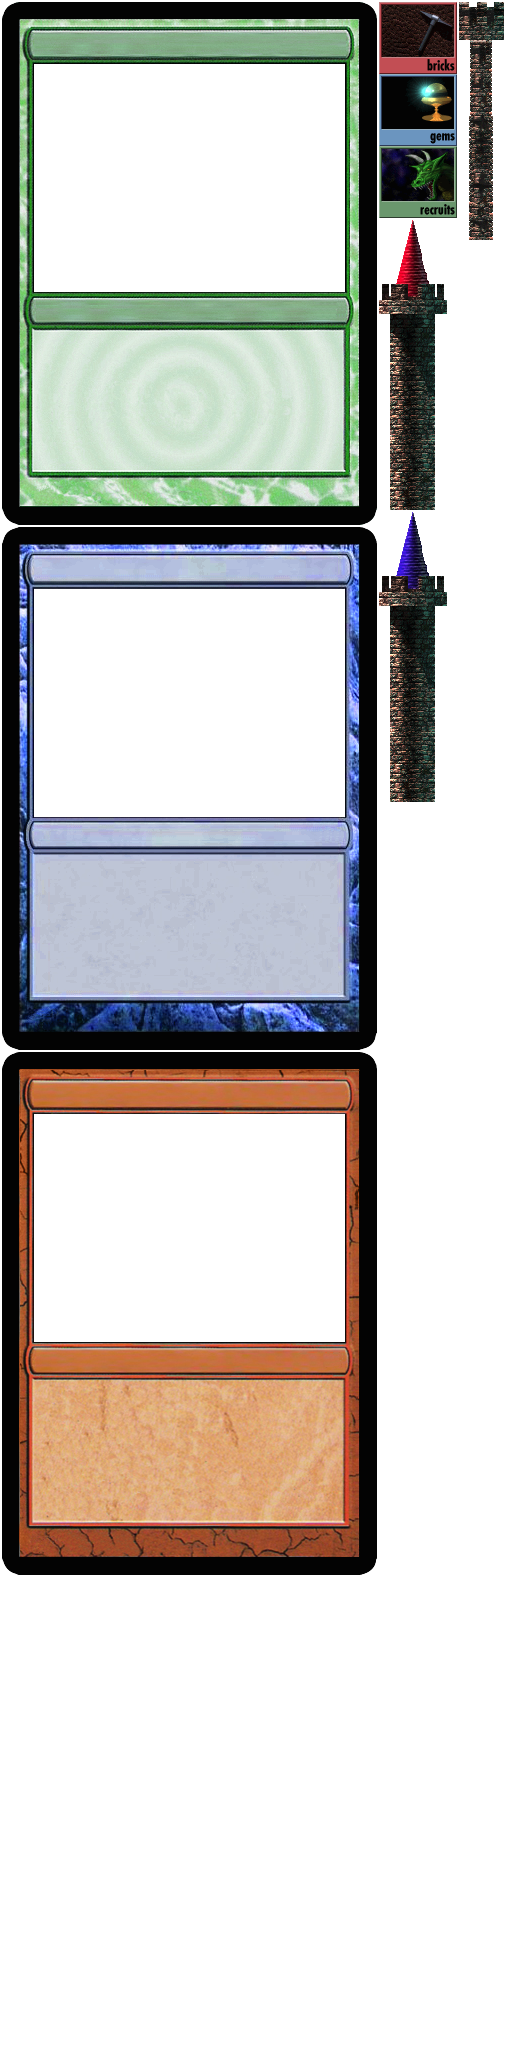
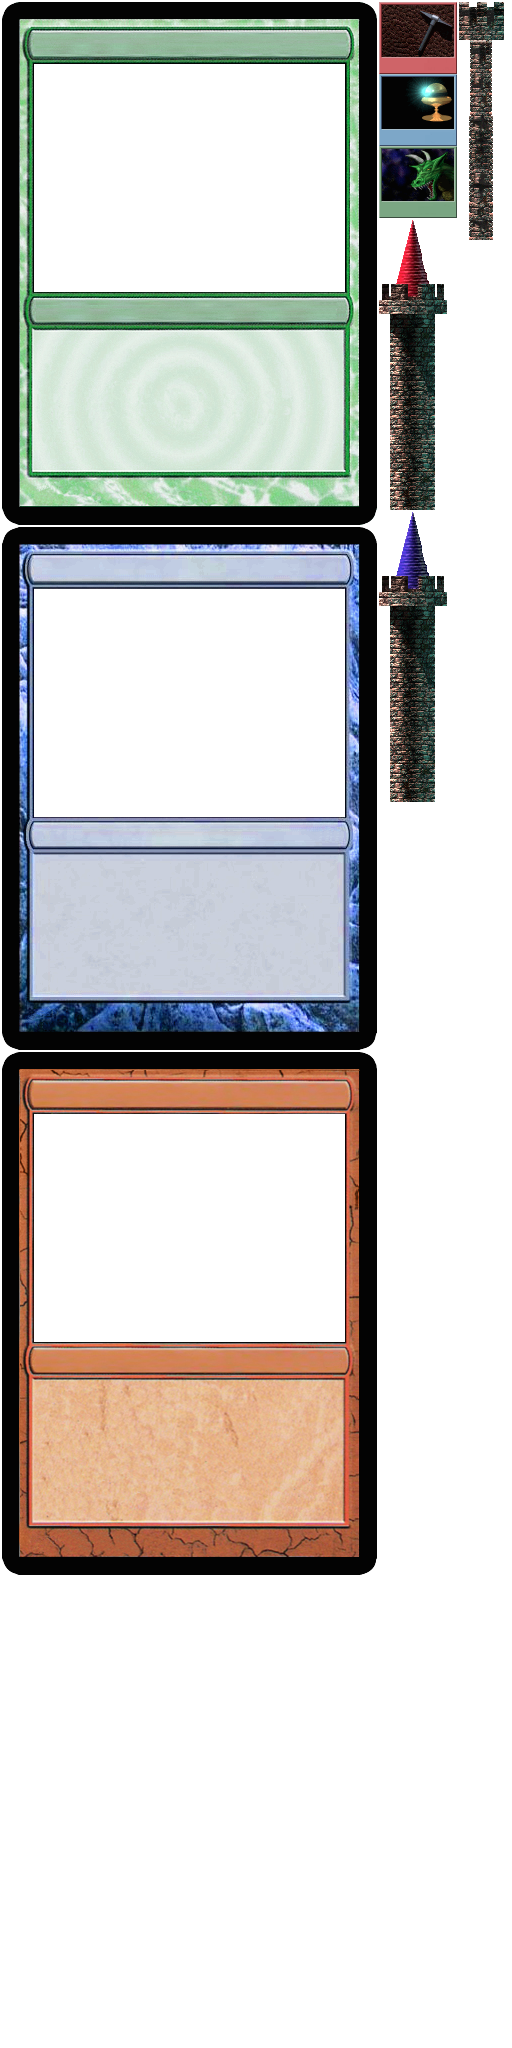
OResourceUI: animate resource bar counter.

diff --git a/Omeotte/Omeotte/OResourcesUI.m b/Omeotte/Omeotte/OResourcesUI.m
@@ -18,10 +18,13 @@
 
 @synthesize lblQuarries;
 @synthesize lblBricks;
+@synthesize qdBricks;
 @synthesize lblMagics;
 @synthesize lblGems;
+@synthesize qdGems;
 @synthesize lblDungeons;
 @synthesize lblRecruits;
+@synthesize qdRecruits;
 
 - (void)dealloc
 {
@@ -29,10 +32,13 @@
     
     [lblQuarries release];
     [lblBricks release];
+    [qdBricks release];
     [lblMagics release];
     [lblGems release];
+    [qdGems release];
     [lblDungeons release];
     [lblRecruits release];
+    [qdRecruits release];
 }
 
 -(id) initWithWidth:(float)width
@@ -75,6 +81,7 @@
     lblQuarries.y = currentY;
     lblQuarries.color = GOLD_COLOR;
     lblQuarries.fontSize = currentHeight;
+    lblQuarries.fontName = EXETER_FONT;
     [self addChild:lblQuarries];
     
     currentY += _height/3;
@@ -83,6 +90,7 @@
     lblMagics.y = currentY;
     lblMagics.color = GOLD_COLOR;
     lblMagics.fontSize = currentHeight;
+    lblMagics.fontName = EXETER_FONT;
     [self addChild:lblMagics];
 
     currentY += _height/3;
@@ -91,56 +99,92 @@
     lblDungeons.y = currentY;
     lblDungeons.color = GOLD_COLOR;
     lblDungeons.fontSize = currentHeight;
+    lblDungeons.fontName = EXETER_FONT;
     [self addChild:lblDungeons];
 
     
     currentY = _height * 0.259;
-    currentWidth = _width * 0.6;
+    currentWidth = _width - (_width*0.06);
     currentHeight = _width * 0.192;
-    lblBricks = [[SPTextField alloc] initWithWidth:currentWidth height:currentHeight];
+    qdBricks = [[SPQuad alloc] initWithWidth:0 height:currentHeight];
+    qdBricks.x = currentX;
+    qdBricks.y = currentY;
+    qdBricks.color = RED_COLOR;
+    [self addChild:qdBricks];
+    lblBricks = [[SPTextField alloc] initWithWidth:currentWidth height:currentHeight text:@"bricks"];
     lblBricks.x = currentX;
     lblBricks.y = currentY;
     lblBricks.color = 0x000000;
     lblBricks.fontSize = currentHeight;
-    lblBricks.hAlign = SPHAlignLeft;
+    lblBricks.hAlign = SPHAlignRight;
     lblBricks.fontName = EXETER_FONT;
     [self addChild:lblBricks];
     
     currentY += _height/3;
-    lblGems = [[SPTextField alloc] initWithWidth:currentWidth height:currentHeight];
+    qdGems = [[SPQuad alloc] initWithWidth:0 height:currentHeight];
+    qdGems.x = currentX;
+    qdGems.y = currentY;
+    qdGems.color = BLUE_COLOR;
+    [self addChild:qdGems];
+    lblGems = [[SPTextField alloc] initWithWidth:currentWidth height:currentHeight text:@"gems"];
     lblGems.x = currentX;
     lblGems.y = currentY;
     lblGems.color = 0x000000;
     lblGems.fontSize = currentHeight;
-    lblGems.hAlign = SPHAlignLeft;
+    lblGems.hAlign = SPHAlignRight;
     lblGems.fontName = EXETER_FONT;
     [self addChild:lblGems];
 
     currentY += _height/3;
-    lblRecruits = [[SPTextField alloc] initWithWidth:currentWidth height:currentHeight];
+    qdRecruits = [[SPQuad alloc] initWithWidth:0 height:currentHeight];
+    qdRecruits.x = currentX;
+    qdRecruits.y = currentY;
+    qdRecruits.color = GREEN_COLOR;
+    [self addChild:qdRecruits];
+    lblRecruits = [[SPTextField alloc] initWithWidth:currentWidth height:currentHeight text:@"recruits"];
     lblRecruits.x = currentX;
     lblRecruits.y = currentY;
     lblRecruits.color = 0x000000;
     lblRecruits.fontSize = currentHeight;
-    lblRecruits.hAlign = SPHAlignLeft;
+    lblRecruits.hAlign = SPHAlignRight;
     lblRecruits.fontName = EXETER_FONT;
     [self addChild:lblRecruits];
 }
 
 -(void) update:(OStats*)stats
 {
-    [self unflatten];
+    float baseWidth = _width - (_width*0.06);
+    float ratio = 0;
+    float width = 0;
     
     lblQuarries.text = [NSString stringWithFormat:@"%d", stats.quarries];
-    lblBricks.text = [NSString stringWithFormat:@"%d", stats.bricks];
+    lblBricks.text = [NSString stringWithFormat:@"%d bricks", stats.bricks];
+    ratio = (float) stats.bricks / (float) _rule.winningResource;
+    width = baseWidth * ratio;
+    [self animateResourceBar:qdBricks width:width];
     
     lblMagics.text = [NSString stringWithFormat:@"%d", stats.magics];
-    lblGems.text = [NSString stringWithFormat:@"%d", stats.gems];
+    lblGems.text = [NSString stringWithFormat:@"%d gems", stats.gems];
+    ratio = (float) stats.gems / (float) _rule.winningResource;
+    width = baseWidth * ratio;
+    [self animateResourceBar:qdGems width:width];
     
     lblDungeons.text = [NSString stringWithFormat:@"%d", stats.dungeons];
-    lblRecruits.text = [NSString stringWithFormat:@"%d", stats.recruits];
+    lblRecruits.text = [NSString stringWithFormat:@"%d recruits", stats.recruits];
+    ratio = (float) stats.recruits / (float) _rule.winningResource;
+    width = baseWidth * ratio;
+    [self animateResourceBar:qdRecruits width:width];
+}
+
+-(void) animateResourceBar:(SPQuad*)bar width:(float)width
+{
+	SPTween *tween = [SPTween tweenWithTarget:bar time:1.0];
+
+	[tween animateProperty:@"width" targetValue:width];
     
-    [self flatten];
+    //	tween.loop = SPLoopTypeReverse;
+    
+	[Sparrow.juggler addObject:tween];
 }
 
 @end

diff --git a/Omeotte/Omeotte/OResourcesUI.h b/Omeotte/Omeotte/OResourcesUI.h
@@ -21,16 +21,22 @@
 
 @property(strong,nonatomic) SPTextField *lblQuarries;
 @property(strong,nonatomic) SPTextField *lblBricks;
+@property(strong,nonatomic) SPQuad *qdBricks;
 
 @property(strong,nonatomic) SPTextField *lblMagics;
 @property(strong,nonatomic) SPTextField *lblGems;
+@property(strong,nonatomic) SPQuad *qdGems;
 
 @property(strong,nonatomic) SPTextField *lblDungeons;
 @property(strong,nonatomic) SPTextField *lblRecruits;
+@property(strong,nonatomic) SPQuad *qdRecruits;
 
 -(id) initWithWidth:(float)width
              height:(float)height
                rule:(ORule*)rule;
+
 -(void) update:(OStats*)stats;
+
+-(void) animateResourceBar:(SPQuad*)bar width:(float)width;
 
 @end

diff --git a/Omeotte/Omeotte/OHealthUI.m b/Omeotte/Omeotte/OHealthUI.m
@@ -129,7 +129,7 @@
     float totalTowerHeight   = _height-TOWER_LABEL_HEIGHT;
     float towerRoofHeight    = TOWER_ROOF_PIXELS*0.524;
     float stemTowerHeight    = totalTowerHeight - towerRoofHeight;
-    float newTowerHeight     = (stemTowerHeight * stats.tower)/_rule.winningTower;
+    float newTowerHeight     = stemTowerHeight * ((float)stats.tower/(float)_rule.winningTower);
     [self animateImage:imgTower
                      x:imgTower.x
                      y:totalTowerHeight-(towerRoofHeight+newTowerHeight)

diff --git a/Omeotte/Omeotte/OCardUI.m b/Omeotte/Omeotte/OCardUI.m
@@ -49,6 +49,7 @@
 
 -(void) setup
 {
+    [SPTextField registerBitmapFontFromFile:CALLIGRAPHICA_FILE];
     [SPTextField registerBitmapFontFromFile:EXETER_FILE];
     
     float currentX = 0;
@@ -97,6 +98,7 @@
     lblCost.y = currentY;
     lblCost.fontSize = currentHeight;
     lblCost.color = 0xffffff;
+    lblCost.fontName = EXETER_FONT;
     [self addChild:lblCost];
     
     currentX = _width * 0.08;

diff --git a/Omeotte/Omeotte/Omeotte.h b/Omeotte/Omeotte/Omeotte.h
@@ -16,7 +16,7 @@
 #define GREEN_COLOR   0x228B22  // forestgreen
 #define GOLD_COLOR    0xD9D919  // bright gold
 
-#define GAME_TURN     30 // seconds
+#define GAME_TURN     30        // seconds
 
 #define CALLIGRAPHICA_FILE   @"Kingthings_Calligraphica.fnt"
 #define CALLIGRAPHICA_FONT   @"Kingthings Calligraphica"

diff --git a/Omeotte/Omeotte/OBattleScene.m b/Omeotte/Omeotte/OBattleScene.m
@@ -273,6 +273,7 @@
     if ([_currentPlayer canPlayCard:card])
     {
         [_currentPlayer play:card onTarget:[self opponentPlayer]];
+        NSLog(@"%@ played: %@", _currentPlayer.name, card.name);
     }
 }
 
